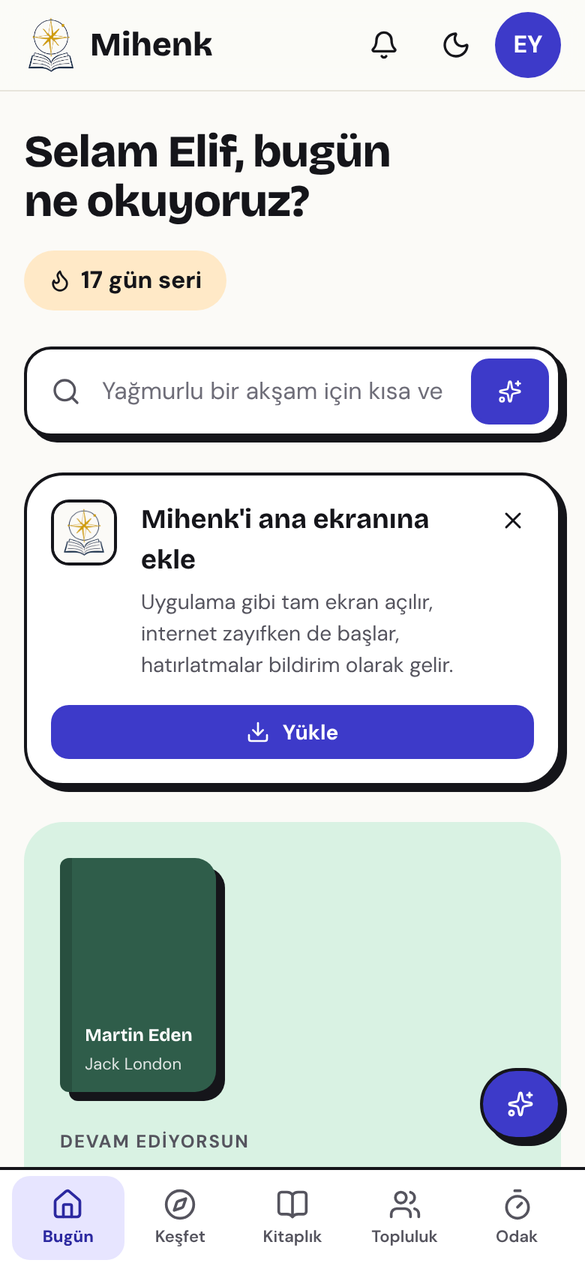
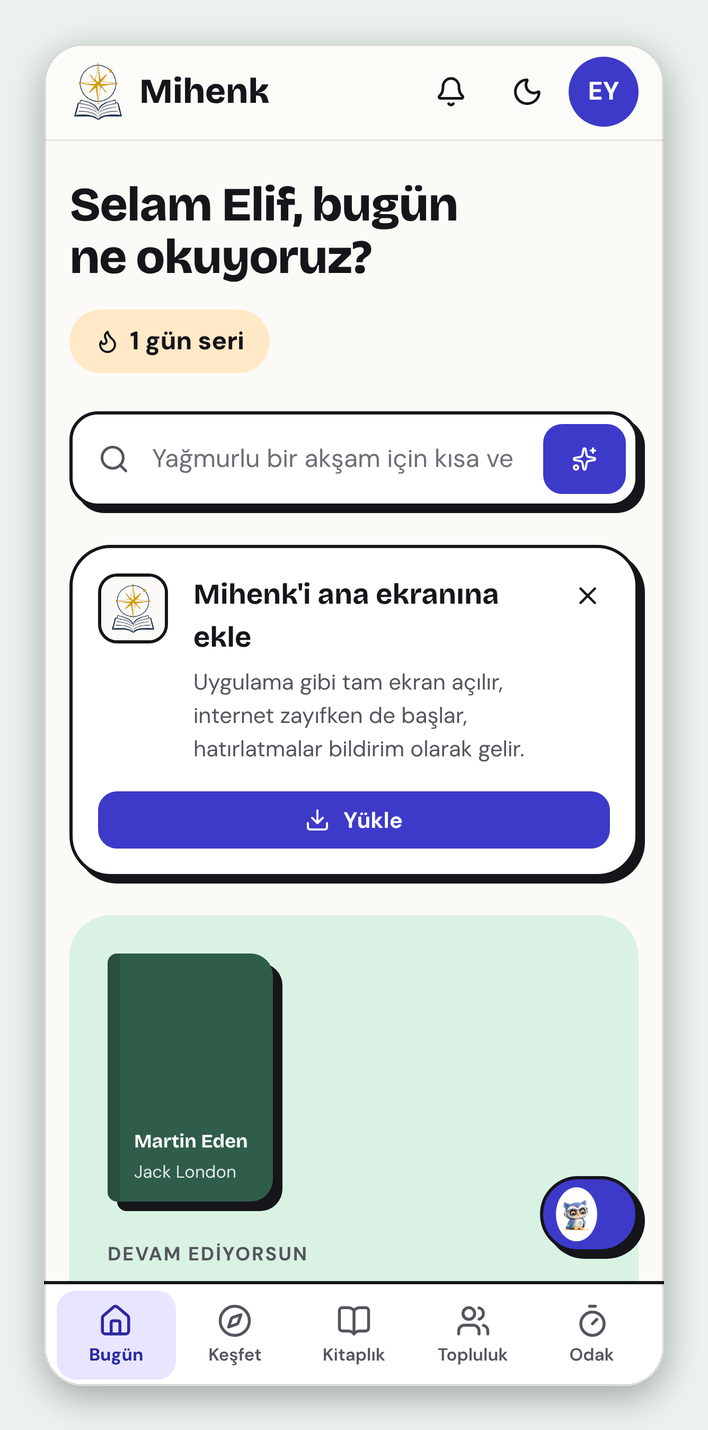
docs: PWA ekran görüntülerini yenile
Telefon görüntülerinin çoğu eski arayüzü gösteriyordu. Dokuzu da
baştan çekildi: gerçek okuma verisi olan bir hesap, 390x844 telefon
görünümü, masaüstü görüntüleriyle aynı çerçeve (yuvarlak köşe,
gölge, ekrana özel zemin rengi).

- Android ve iPhone kurulum kartları, her iki tarayıcının gördüğü
  hâlleriyle alındı.
- Canlı oda görüntüsü gerçek bir oda ve sohbetle çekildi.
- 'Telefonda Bugün' ve 'Telefonda kitaplık' eklendi; galeri dokuz
  ekrana çıktı.

diff --git a/README.md b/README.md
@@ -129,14 +129,14 @@ Servis çalışanı sitenin kökünden (`/service-worker.js`) sunulur ve tüm
 sayfaları kontrol eder. Manifest `backend/app/static/manifest.webmanifest`
 dosyasındadır.
 
-Telefon görüntüleri 390×844 boyutunda, Android ve iPhone tarayıcısıyla alındı.
+Telefon görüntüleri 390×844 telefon görünümünde alındı; kurulum kartları Android ve iPhone tarayıcılarının gördüğü hâlleriyle.
 
 <table>
   <tr>
     <td width="50%" valign="top">
       <img src="docs/assets/screenshots/pwa/android-yukle.png" alt="Android: tek dokunuşla kurulum" width="260"><br>
       <b>Android: tek dokunuşla kurulum</b><br>
-      Chrome, Edge ve Samsung Internet’te Bugün ekranında kart çıkar; “Yükle” tarayıcının kendi kurulum penceresini açar. Kart kapatılırsa 30 gün gösterilmez.
+      Chrome, Edge ve Samsung Internet'te Bugün ekranında kart çıkar; “Yükle” tarayıcının kendi kurulum penceresini açar. Kart kapatılırsa bir süre gösterilmez.
     </td>
     <td width="50%" valign="top">
       <img src="docs/assets/screenshots/pwa/iphone-ana-ekran.png" alt="iPhone: Ana Ekrana Ekle" width="260"><br>
@@ -151,9 +151,21 @@ Telefon görüntüleri 390×844 boyutunda, Android ve iPhone tarayıcısıyla al
       Kurulum durumu her zaman buradadır: yüklüyse bunu söyler, değilse cihaza uygun yolu anlatır.
     </td>
     <td width="50%" valign="top">
+      <img src="docs/assets/screenshots/pwa/bugun.png" alt="Telefonda Bugün" width="260"><br>
+      <b>Telefonda Bugün</b><br>
+      Kaldığın kitap, ilerlemen ve günün önerileri tek sütunda; altta beş sekmeli gezinme çubuğu.
+    </td>
+  </tr>
+  <tr>
+    <td width="50%" valign="top">
       <img src="docs/assets/screenshots/pwa/kesfet.png" alt="Telefonda Keşfet" width="260"><br>
       <b>Telefonda Keşfet</b><br>
-      Öneriler tek sütunda; alt gezinme çubuğuyla Bugün, Keşfet, Kitaplık, Topluluk ve Odak arasında geçilir.
+      Öneriler ve katalog tek sütunda; arama kutusu üstte sabit kalır.
+    </td>
+    <td width="50%" valign="top">
+      <img src="docs/assets/screenshots/pwa/kitaplik.png" alt="Telefonda kitaplık" width="260"><br>
+      <b>Telefonda kitaplık</b><br>
+      Raflar arasında yatay sekmelerle geçilir; her satırda sayfa ilerlemesi görünür.
     </td>
   </tr>
   <tr>
@@ -172,7 +184,7 @@ Telefon görüntüleri 390×844 boyutunda, Android ve iPhone tarayıcısıyla al
     <td width="50%" valign="top">
       <img src="docs/assets/screenshots/pwa/canli-oda.png" alt="Telefonda canlı oda" width="260"><br>
       <b>Telefonda canlı oda</b><br>
-      Katılımcılar üstte kısa bir liste, altında sohbet. Yüzen asistan düğmesi bu ekranda gizlenir ki mesaj kutusunu örtmesin.
+      Katılımcılar üstte kısa bir liste, altında sohbet.
     </td>
     <td width="50%"></td>
   </tr>
